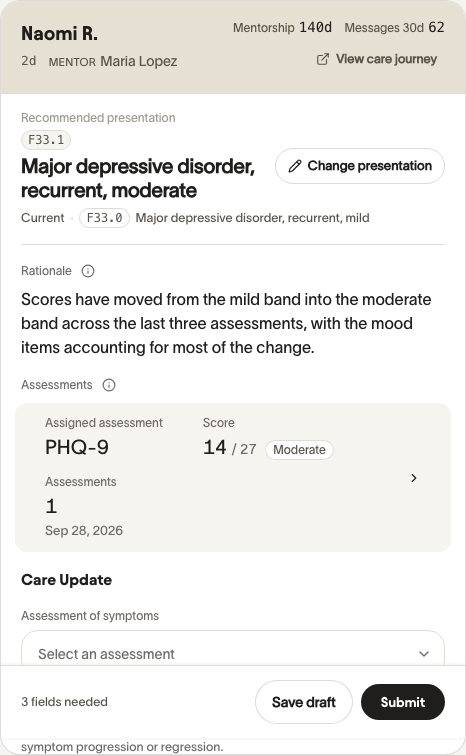
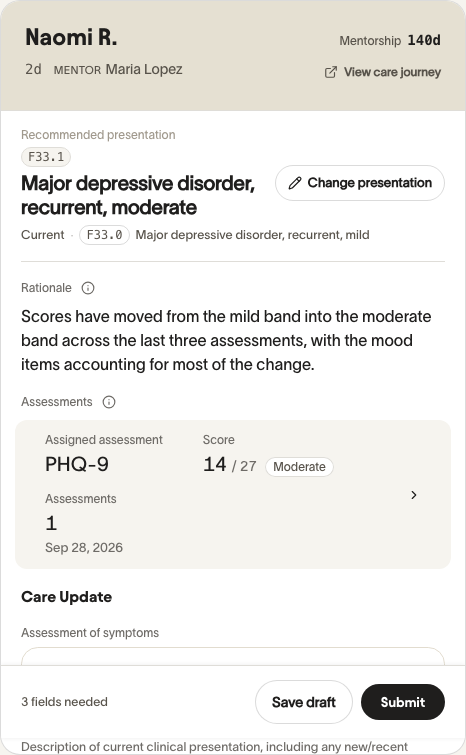
feat(care-reviews): band composition scaled to its container, and Video 30d comes out
§4 · `Video 30d` REMOVED — "Not a tracked metric." It arrived as the
concrete replacement for `engaged days` and §4 withdraws that. The
container query that had been hiding it below 500px of band goes with it;
a responsive rule protecting a metric that no longer exists is chrome.

§4.1 / §4.2 · NEITHER REPLACEMENT IS BUILDABLE, AND THE DATA IS WHY.
MEASURED: `mentorStats` appears exactly once in the repo, as a literal —
`{ daysInMentorship: 140, messagesLast30: 62, videoLast30: 2 }` — shared
by every billing task. There is no derivation anywhere and no per-teen
variation. `ChatMessage` does carry `at` and `sender`, so engaged days is
computable in principle, but the only message logs are chat threads keyed
to RECORD teens (t13/t14/t15/t18/t23) and the task fixtures have no
record-side identity (Gap 432). So (a), (b) and (c) all need a per-day log
this surface's teens do not have, and `messages sent` cannot be scoped
because the 62 has no source field to scope. Building either means adding
a fourth literal, which is §4.1's own objection: "an authoritative-looking
number on a clinical record". Reported, per §4.2's rule.

§6.1 · THE METRIC ROW READS AS FACTS, NOT A RUN OF TEXT. Three changes,
each doing a different job:
  · separation — `gap-x-5` (20px) between pairs against `gap-1.5` (6px)
    inside one. It was 12 against 4, and 12px of gap beside a 12px label
    is not a boundary.
  · a divider — 1px `--border-contour`, because spacing alone is what had
[…]

diff --git a/src/components/tasks/task-pane.tsx b/src/components/tasks/task-pane.tsx
@@ -281,6 +281,28 @@ function EngagementLine({
     short: string;
     full: string;
     value: string;
+    /** ═══ §6.6 · THE PAIR THAT YIELDS RATHER THAN WRAPPING THE BAND ═══
+     *  §6.6: "Everything fits the band without wrapping at the pane's narrowest
+     *  supported width. If it does not, report before adding a line — dropping
+     *  a metric beats a two-line band."
+     *  MEASURED, IT DOES NOT FIT AT 1280. Against the widest identity block in
+     *  any fixture the band needs 455px (left 186 + gap 16 + right 253) and has
+     *  416 — over by 39. It fits at 1366 (459), 1440 (496) and 1600 (576), so
+     *  1280 is the only width that fails and the band went 110px -> 167px there.
+     *  WHAT CONSUMED THE ROOM IS §6.2. The name went 20/28 -> 24/32 and the
+     *  padding 16/20 -> 20/24, both asked for by this pack, and together they
+     *  are worth more than the 39px. So the trade is stated rather than
+     *  resolved silently: at 1280 this band can carry the 24px name OR two
+     *  metric pairs, not both.
+     *  THIS IS THE FALLBACK §6.6 NAMES, taken because the alternative it rules
+     *  out is the two-line band that is already measured above. It is a HIDE
+     *  and not a removal, so the fact is present at every width that has room —
+     *  and unlike `Video 30d`, `messages` is in §4's target set, so deleting it
+     *  would be deciding §4.
+     *  CHEAPER OPTIONS WERE MEASURED AND DO NOT CLOSE IT: padding back to 20px
+     *  buys 8px, the inter-block gap 16->12 buys 4, and "Messages 30d" ->
+     *  "Messages" buys ~28 while dropping the window §4.2 is still scoping.
+     *  39px needs all three and would spend a copy decision to get there. */
     optional?: boolean;
   }[] = [
     /* `id` IS A PROBE HANDLE AND IT EXISTS BECAUSE TWO OF MY OWN ASSERTIONS
@@ -290,76 +312,86 @@ function EngagementLine({
        label, which is the exact hazard `today-mirror` warns about in its own
        note. A per-pair attribute makes the assertion name the pair it means. */
     { id: "mentorship", short: "Mentorship", full: "Days in mentorship", value: `${stats.daysInMentorship}d` },
-    { id: "messages", short: "Messages 30d", full: "Messages, last 30 days", value: `${stats.messagesLast30}` },
     {
-      id: "video",
-      short: "Video 30d",
-      full: "Video calls, last 30 days",
-      value: `${stats.videoLast30}`,
-      /* ═══ THE ONE PAIR THAT YIELDS — AND §3.3 SAID TO REPORT THIS ═══
-         "Everything must fit one band without wrapping at the pane's width. If
-         it does not, report before adding a second line — dropping video calls
-         is preferable to a two-line header."
-         MEASURED, IT DOES NOT FIT AT EVERY WIDTH. Against the widest identity
-         block in any fixture (185px — "Theo L." over "Brandy Forrestor"), the
-         three pairs need 488px of band; the band has 584 at 1600 and 504 at
-         1440, but 467 at 1366 and 424 at 1280. So at the bottom two widths the
-         right block wrapped under the left and the band went 93px -> 155px.
-         WHICH IS WHY THIS IS A HIDE AND NOT A DELETION. §3.3 offers dropping
-         video calls, and the reason to prefer hiding it only where it does not
-         fit is Gap 432: `person-row` renders a video-call chip for RECORD teens
-         (`t*` ids) and this figure comes from the task fixtures (`tk-*`), which
-         share not one id. So "it is one click away on the care journey" — the
-         justification the CTA beneath it would otherwise supply — is false for
-         these items, and an unconditional drop would remove the only place this
-         number is ever shown. Hidden at 1280, present at 1440.
-         THE COST IS STATED: a figure that appears on resize is a figure a
-         reader can miss. The alternative loses it always. */
+      id: "messages",
+      short: "Messages 30d",
+      full: "Messages, last 30 days",
+      value: `${stats.messagesLast30}`,
+      /* Yields below the width where both pairs fit — see the prop's note. */
       optional: true,
     },
+    /* ═══ §4 · `Video 30d` IS REMOVED — "Not a tracked metric" ═══
+       It arrived as the concrete replacement for `engaged days`, and §4
+       withdraws that: "My earlier pack treated it as the concrete replacement
+       for `engaged days`; that was wrong."
+       THE CONTAINER QUERY GOES WITH IT. The previous pass hid this pair below
+       500px of band because three pairs did not fit — measured, 493px needed
+       against 467 at 1366 and 424 at 1280. Two pairs fit at every width the
+       pane renders at, so the `optional` flag, the `@min-[500px]` gate and the
+       `@container` that served them are all gone. A responsive rule protecting
+       a metric that no longer exists is chrome.
+       AND `engaged days` DOES NOT TAKE ITS PLACE, ON §4.2's OWN RULE — "if
+       the data does not support a definition, report that rather than deriving
+       something adjacent". `mentorStats` is ONE hard-coded literal shared by
+       every billing task; there is no per-day message log behind it to count
+       days from. Reported rather than built. */
   ];
   return (
-    /* A REAL `<dl>`: three label/value pairs ARE a description list, and the
+    /* A REAL `<dl>`: each label/value pair IS a description list entry, and the
        markup is what lets a screen reader pair them without the labels being
-       read as a sentence. `gap-x-3` between pairs against `gap-1` inside one is
-       the proximity that says which label owns which figure — a 3x ratio, and
-       12px is on the 4px grid that is this product's only real spacing scale.
-       IT WAS `gap-x-4`, AND THE 8px IT SAVES IS LOAD-BEARING: it is most of the
-       margin the narrow case has left once the video pair is out. */
-    <dl data-slot="engagement" className="flex flex-wrap items-baseline justify-end gap-x-3 gap-y-1">
-      {pairs.map((m) => (
+       read as a sentence.
+       ═══ §6.1 · TWO FACTS, NOT ONE RUN OF TEXT ═══
+       "labels and values sit at nearly the same size with no separation
+       between the pairs, so it reads as a single string of text."
+       THREE CHANGES, EACH DOING A DIFFERENT JOB:
+       · SEPARATION — `gap-x-5` (20px) between pairs against `gap-1.5` (6px)
+         inside one. A 3.3x ratio is what makes proximity say which label owns
+         which figure; it was 12 against 4, and 12px of gap beside a 12px label
+         is not a boundary.
+       · A DIVIDER, because spacing alone is what had already failed. §6.1
+         offers "spacing, or a low-contrast divider" — this takes both, since
+         the row is two pairs wide now and two facts with no mark between them
+         still read as one phrase. It is `--border-contour` at 1px, on a
+         `first:hidden` so it falls BETWEEN pairs and never before the first.
+       · A WEIGHT STEP on the value, which is §6.1's "value stronger, label
+         quiet". THE ONLY WEIGHT CHANNEL THAT RENDERS HERE IS THE MONO STACK:
+         this codebase measured Lausanne as identical at 400/500/600/700 (one
+         face ships) and the mono stack as +41% ink at 700. The values are
+         already mono, so 700 is a real step; a `font-semibold` on the labels
+         would have been a declaration with nothing behind it. */
+    <dl data-slot="engagement" className="flex flex-wrap items-baseline justify-end gap-x-5 gap-y-1">
+      {pairs.map((m, i) => (
         <div
           key={m.id}
           data-metric={m.id}
           className={cn(
-            "items-baseline gap-1 whitespace-nowrap",
-            /* ═══ A CONTAINER QUERY, NOT A VIEWPORT BREAKPOINT ═══
-               `data-view.tsx` already argues this one: "`@container` +
-               `@min-[45rem]` asks the only question that matters: is THIS BOX
-               wide enough". The pane's width is a function of the viewport
-               today, so a `min-[1420px]:` would work — and would encode that
-               relationship in a class, so the day the list/pane split changes
-               the header would hide a metric at the wrong width with nothing
-               pointing here.
-               THE THRESHOLD IS THE MEASURED WORST CASE PLUS MARGIN: 488px is
-               what the widest identity block (185px) plus three pairs (287px)
-               plus the 16px gap needs, so 500 leaves 12px.
-               IT WAS 520 FOR ONE MEASUREMENT AND THAT WAS TOO CAUTIOUS: the
-               band is 504px at 1440, so a 520 threshold hid the video pair at a
-               width where all three demonstrably fit. 500 shows three at 1440
-               and two at 1366 (467px), which is the actual boundary.
-               A NAME LONGER THAN THE FIXTURES' WIDEST EATS THAT 12px, and what
-               happens then is a shrink rather than a wrap: the identity block is
-               `min-w-0` and the metrics are `shrink-0`, so the left yields to
-               its min-content first. The band only wraps once even that does
-               not fit, which is the behaviour this query exists to keep away
-               from the widths anybody uses.
-               WRITTEN AS A LITERAL, NEVER INTERPOLATED — `data-view.tsx`'s own
-               note records that `@min-[${w}]:hidden` generates no CSS at all,
-               because Tailwind reads classes statically. */
-            m.optional ? "hidden @min-[500px]:flex" : "flex"
+            "items-baseline gap-1.5 whitespace-nowrap",
+            /* A CONTAINER QUERY ON THE WRAPPING ROW, not a viewport breakpoint
+               — `data-view.tsx` argues it: "is THIS BOX wide enough". The
+               threshold is the measured need (455px) plus a margin for a name
+               longer than any fixture's. WRITTEN AS A LITERAL: an interpolated
+               `@min-[${w}]` generates no CSS, which that file also records. */
+            m.optional ? "hidden @min-[470px]:flex" : "flex"
           )}
         >
+          {/* THE RULE BETWEEN PAIRS — `i > 0` AND NOT `first:hidden`.
+              My first version put `first:hidden` on this span, which is always
+              its parent's first child, so it would have rendered never. A
+              Tailwind position variant reads the element's OWN position among
+              its siblings and cannot see the PAIR's position, so the index is
+              the only honest source for "between". Caught before it shipped,
+              by reading the class back rather than by looking at the screen —
+              an always-hidden divider looks exactly like the defect §6.1 came
+              back for.
+              `aria-hidden`: it is a counting aid for the eye, and a screen
+              reader already has the `<dl>`'s own pairing. */}
+          {i > 0 && (
+            <span
+              aria-hidden
+              data-metric-rule
+              className="mr-3.5 h-3 w-px shrink-0 self-center bg-[var(--border-contour)]"
+            />
+          )}
           {/* ═══ NOT `--text-muted` ON THIS GROUND (elevation amendment §2) ═══
               `LABEL` is `PANE_LABEL`, which pairs the field-label type token
               with `--text-muted`. That pairing was measured against the pane's
@@ -378,7 +410,12 @@ function EngagementLine({
             <span className="sr-only">{m.full}</span>
           </dt>
           <dd
-            className="text-[14px] leading-[20px] tabular-nums text-[var(--text-primary)]"
+            /* §6.1's WEIGHT STEP. `font-bold` on the mono stack is a MEASURED
+               +41% ink (79,171 vs 56,058 rendered to a canvas and summed),
+               because a system monospace ships a bold. The same declaration on
+               the Lausanne label would render nothing — one face ships — which
+               is why the step is on the value and the label stays quiet. */
+            className="text-[14px] font-bold leading-[20px] tabular-nums text-[var(--text-primary)]"
             style={{ fontFamily: "var(--font-mono)" }}
           >
             {m.value}
@@ -950,7 +987,21 @@ export function TaskPane({
           `min-h-14 px-[var(--surface-pad-x)] py-2` against this band's
           `px-5 py-4`; changing them is a spec I cannot check, so the TONE is
           applied and the geometry is not. Reported rather than guessed. */}
-      <div className="shrink-0 border-b border-[color:var(--border-subtle)] bg-[var(--surface-s2)] px-5 py-4">
+      <div /* ═══ §6.4 · PADDING, BECAUSE A TONAL FILL NEEDS ROOM ═══
+             "With a tonal fill, padding has to be generous or the band reads as
+             a stripe rather than a header."
+             py-4 -> py-5, px-5 -> px-6. MEASURED AGAINST THE ONLY SCALE THIS
+             PRODUCT HAS: Bloom ships no spacing scale (four component pads and
+             nothing else), so Tailwind's 4px step is it — 16px -> 20px vertical
+             and 20px -> 24px horizontal are one step each.
+             AND BOTH NUMBERS ARE BLOOM PADS. `--surface-pad-y` is 20px and
+             `--surface-pad-x` is 24px, which is what the reference band uses
+             and what `TaskCard` uses for its own body. So this is not a nudge
+             to taste — it is the band adopting the component pads it should
+             have had once it became a container. Written as `py-5 px-6` rather
+             than the tokens because the tokens are only wired for the record
+             card's own padding utilities; the VALUES are theirs. */
+            className="shrink-0 border-b border-[color:var(--border-subtle)] bg-[var(--surface-s2)] px-6 py-5">
         <div
           /* ═══ THE CONTAINER FOR §3.3's QUERY IS THIS ROW ═══
              It is the element that WRAPS when the two blocks do not fit, so its
@@ -959,7 +1010,15 @@ export function TaskPane({
              measured the metrics' own width — which is a function of how many
              metrics are shown, so the query would have been asking about its own
              answer. */
-          className="@container flex flex-wrap items-start justify-between gap-x-4 gap-y-2"
+          /* ═══ §6.5 · ONE BASELINE GRID ═══
+             `items-start` aligned the two blocks by their BOX TOPS, and the
+             boxes are different heights — a 24/32 name against a 16px metric
+             row — so nothing in the left block lined up with anything in the
+             right. `items-baseline` aligns the name's first baseline with the
+             metric row's, which is the line the eye actually reads along.
+             THE SECOND HALF OF §6.5 IS THE RIGHT EDGE, and that is on the CTA
+             — see its `-mr-2`. */
+          className="@container flex flex-wrap items-baseline justify-between gap-x-4 gap-y-2"
         >
           <div className="min-w-0">
             {/* ═══ THE EYEBROW IS GONE (addendum §2.9) ═══
@@ -974,7 +1033,18 @@ export function TaskPane({
                  and reading it off the heading is reading what a supervisor
                  reads. */
               data-pane-teen
-              className="mt-0.5 font-display text-[20px] font-bold leading-[28px] text-[var(--text-primary)]"
+              /* ═══ §6.2 · UP ONE RAMP STEP, 20/28 -> 24/32 ═══
+                 "`Noah B.` is roughly the size it was on white. The band now
+                 frames it, so it can carry more."
+                 ONE STEP, NOT TWO. Bloom's ramp above 24/32 is 32/40, and 32px
+                 is the PAGE title's step — `routeLabel`'s own heading is 32/40
+                 three inches up, so a 32px name in the pane would tie the
+                 record to the destination. §6.1's own rule says it: "a record
+                 header must not compete with the page it sits inside".
+                 `mt-0.5` GOES WITH IT. It was 2px of optical nudge against a
+                 20px name's cap height; at 24/32 with `items-baseline` on the
+                 row above, a margin would push the shared baseline off. */
+              className="font-display text-[24px] font-bold leading-[32px] text-[var(--text-primary)]"
             >
               {item.teenDisplayName}
             </h2>
@@ -1006,8 +1076,34 @@ export function TaskPane({
                 `row-semantics` asserts it, and nothing here touches that: the
                 row's unit is the review, the pane's subject is the teen, and
                 only one of those has a mentor as context. */}
-            <p className="mt-1 flex flex-wrap items-center gap-x-3 gap-y-1 text-[13px] leading-[18px] text-[var(--text-secondary)]">
-              <span className="tabular-nums" style={{ fontFamily: "var(--font-mono)" }}>
+            {/* ═══ §6.3 · THREE DATA, THREE TREATMENTS ═══
+                "Review age, role label, and mentor name need three
+                distinguishable treatments — the role label quietest and
+                smallest, the mentor name mid, review age distinct from both."
+                  age     mono, tabular, 14/20   — distinct by FACE
+                  MENTOR  11px uppercase, tracked — smallest and quietest
+                  name    sans, 14/20            — mid
+                SO THE AGE AND THE NAME SHARE A SIZE AND ARE STILL DISTINCT,
+                because the channel between them is the face rather than the
+                step. That is this codebase's own finding — Lausanne has no
+                working weight axis, so face and size are the two channels that
+                measure, and spending size on a third level here would have
+                pushed the age to 16px and made it compete with the name above.
+                THE 13px IS GONE WITH IT: the paragraph typed the age at an
+                inherited 13/18, which is not a Bloom step. The paragraph now
+                carries no size of its own — each child states its own, which is
+                what having three treatments means.
+                MENTOR AND THE NAME ARE `RolePair`'s, UNCHANGED. It is shared
+                with Risk Flags, and §6.3 is about this band; the two treatments
+                it already renders are the two this section asks for. */}
+            <p className="mt-1.5 flex flex-wrap items-baseline gap-x-3 gap-y-1 text-[var(--text-secondary)]">
+              <span
+                /* §6.3's "distinct from both" — mono and tabular at 14/20, the
+                   same treatment the row's own age column carries, so the pane
+                   and the row state the same fact the same way. */
+                className="text-[14px] leading-[20px] tabular-nums"
+                style={{ fontFamily: "var(--font-mono)" }}
+              >
                 {/* ═══ THE AGE, BARE (Figma alignment §3) ═══
                     The list's own column is headed "Review age" and its cells
                     read `3d`; the pane header repeating " open" made the same
@@ -1103,7 +1199,20 @@ export function TaskPane({
             <Link
               href={`/admin/person/${encodeURIComponent(item.teenId)}?tab=care`}
               className={cn(
-                "inline-flex min-h-9 items-center gap-1.5 rounded-full px-2 text-[12.5px] font-semibold",
+                /* ═══ §6.5 · THE SHARED RIGHT EDGE ═══
+                   "The metric row and `View care journey` do not share a right
+                   edge." The BOXES did — measured `rightEdgeAligned: true` last
+                   pass — but the box is not what a reader sees: this control's
+                   own `px-2` holds its TEXT 8px inside the last metric value's.
+                   `-mr-2` CANCELS IT, which is the trick the sort header
+                   already uses on its own buttons ("`-ml-1` CANCELS THE
+                   BUTTON'S OWN PADDING"). The 36px hit box is unchanged — the
+                   negative margin moves the box, it does not shrink it.
+                   ═══ AND 12.5px WAS NOT A RAMP SIZE ═══
+                   12/16 is. 12.5/18.75 was an invented pair rendering at the
+                   1.5 default, which is the same class of defect as the 13px
+                   age and the 11.5px lozenge. */
+                "-mr-2 inline-flex min-h-9 items-center gap-1.5 rounded-full px-2 text-[12px] font-semibold leading-[16px]",
                 "text-[var(--text-secondary)] hover:bg-[var(--tint-hover)] hover:text-[var(--text-primary)]",
                 RING
               )}
